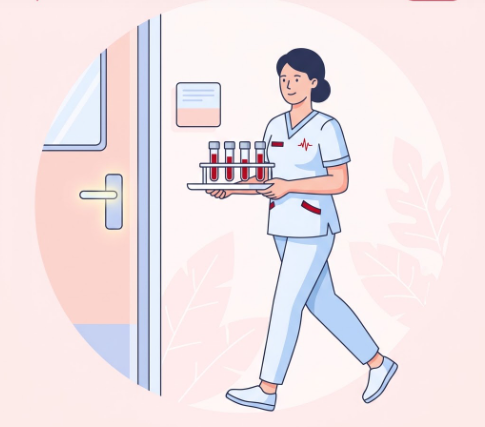
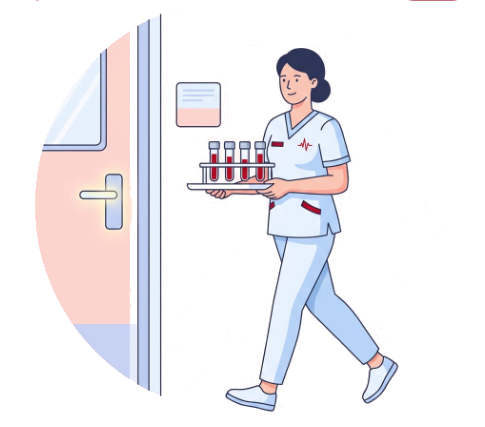
fix(onboarding): remove square bounding box from Step 2 Save Lives illustration and container

Changed region(s): [[0.2474, 0.0609, 0.3093, 0.7611], [0.8969, 0.0, 0.9278, 0.0304]]

diff --git a/blood_pulse/lib/features/onboarding/presentation/screens/onboarding_screen.dart b/blood_pulse/lib/features/onboarding/presentation/screens/onboarding_screen.dart
@@ -234,34 +234,26 @@ class _OnboardingScreenState extends State<OnboardingScreen> {
         children: [
           const Spacer(flex: 1),
 
-          // Illustration Container with subtle soft background
+          // Illustration Container
           Center(
-            child: Container(
+            child: SizedBox(
               height: 290,
-              constraints: const BoxConstraints(maxWidth: 320),
-              decoration: BoxDecoration(
-                color: Colors.transparent,
-                borderRadius: BorderRadius.circular(24),
-              ),
-              child: ClipRRect(
-                borderRadius: BorderRadius.circular(24),
-                child: Image.asset(
-                  step.imagePath,
-                  fit: BoxFit.contain,
-                  errorBuilder: (context, error, stackTrace) => Container(
-                    width: 260,
-                    height: 260,
-                    decoration: BoxDecoration(
-                      color: const Color(0xFFFDE8E9),
-                      shape: BoxShape.circle,
-                      border: Border.all(
-                          color: AppColors.primary.withAlpha(40), width: 2),
-                    ),
-                    child: const Icon(
-                      Icons.volunteer_activism_rounded,
-                      color: AppColors.primary,
-                      size: 80,
-                    ),
+              child: Image.asset(
+                step.imagePath,
+                fit: BoxFit.contain,
+                errorBuilder: (context, error, stackTrace) => Container(
+                  width: 260,
+                  height: 260,
+                  decoration: BoxDecoration(
+                    color: const Color(0xFFFDE8E9),
+                    shape: BoxShape.circle,
+                    border: Border.all(
+                        color: AppColors.primary.withAlpha(40), width: 2),
+                  ),
+                  child: const Icon(
+                    Icons.volunteer_activism_rounded,
+                    color: AppColors.primary,
+                    size: 80,
                   ),
                 ),
               ),
